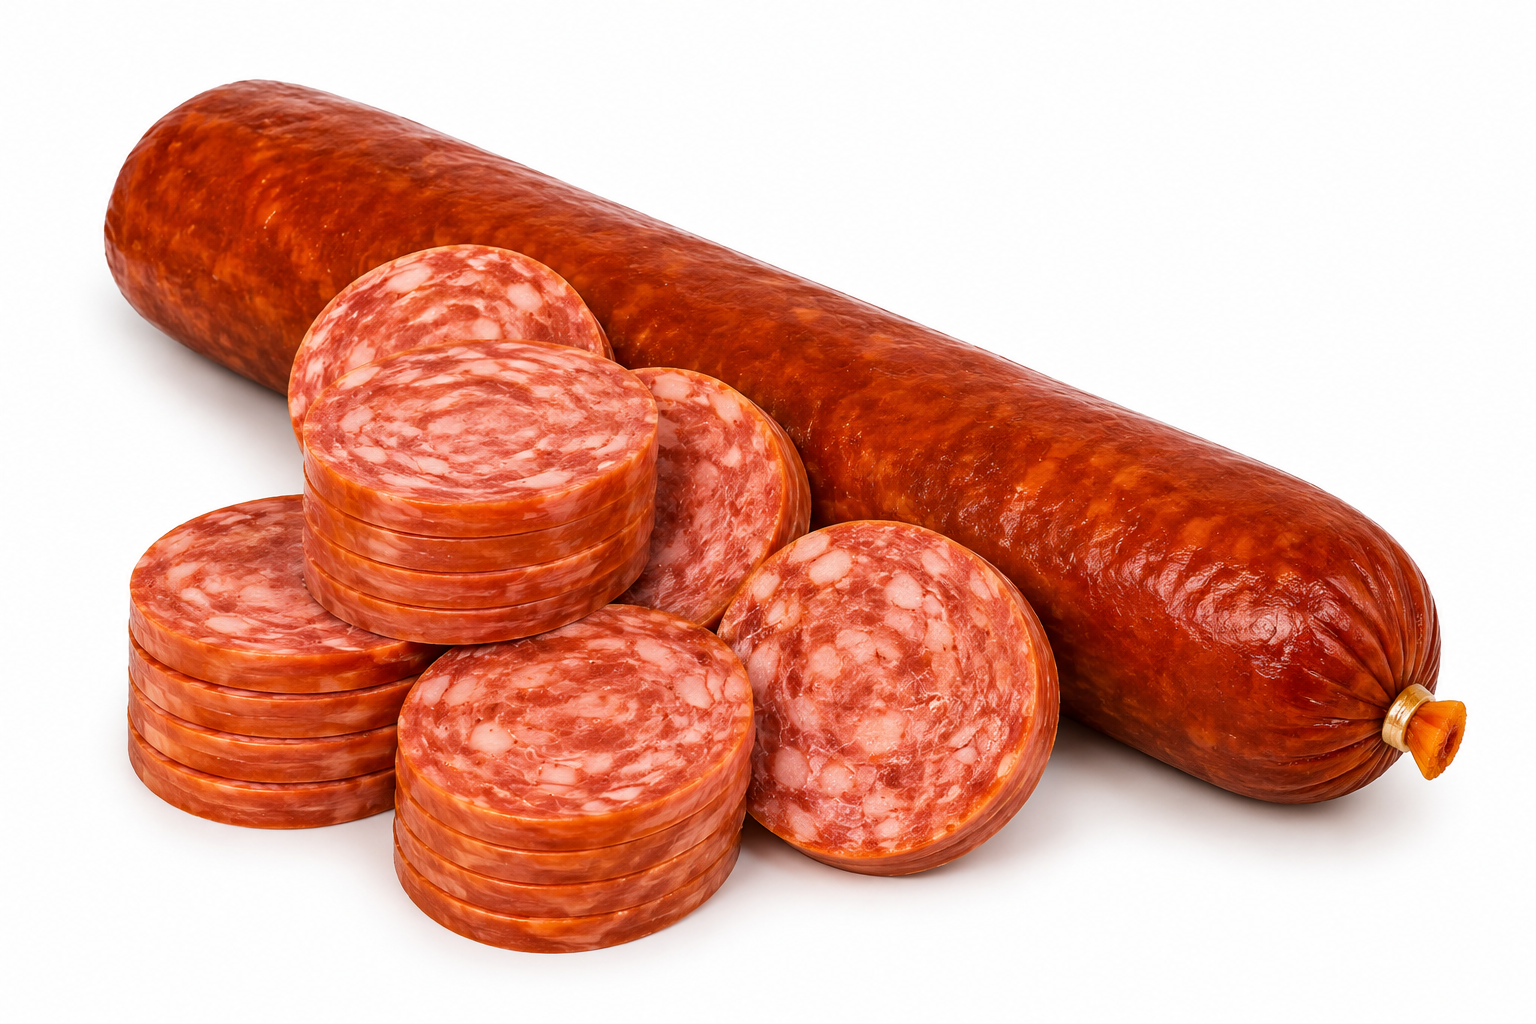
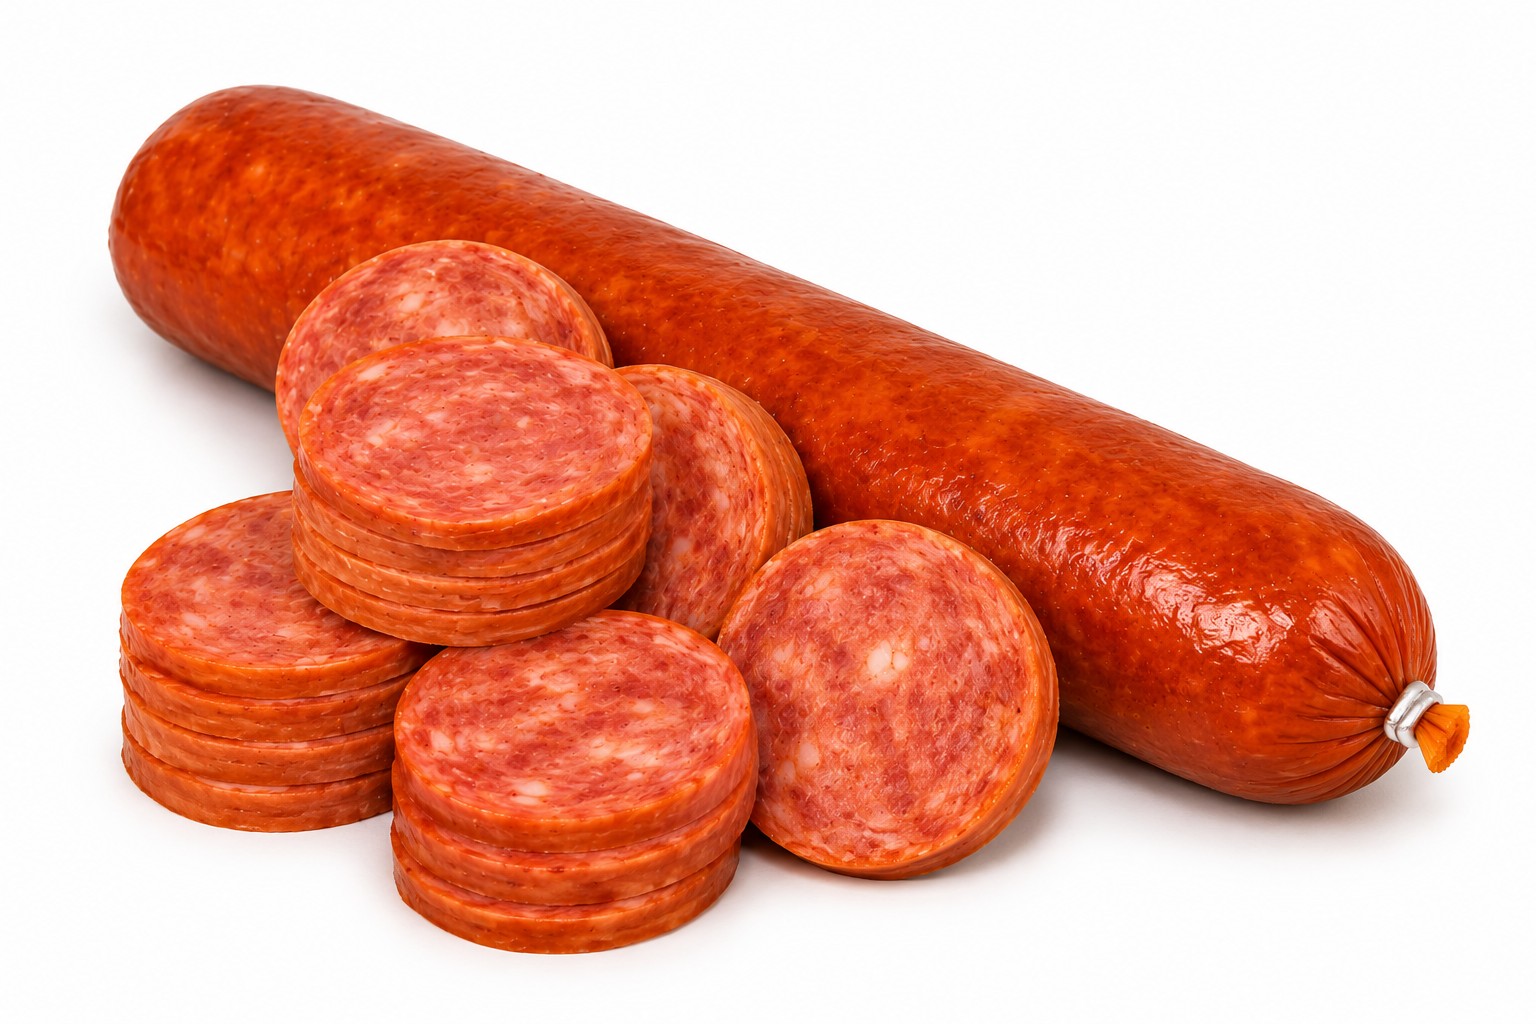
Actualizar imagenes y detalles de producto, agregar carrousel

diff --git a/js/productos.js b/js/productos.js
@@ -3,6 +3,7 @@
 // simulando un API Rest interno, y construcción dinámica del DOM.
 // Incluye la galería de imágenes integrada: cada tarjeta muestra la
 // fotografía del producto y al hacer clic se amplía en un lightbox.
+// Los productos con "imagenes" (2 o más) muestran un slider.
 // Usa jQuery para todas las operaciones sobre el DOM.
 // ============================================================
 
@@ -25,13 +26,37 @@ $(function () {
       <path d="M6 12c0 2 2.7 3.5 6 3.5s6-1.5 6-3.5"/>
     </svg>`;
 
+  // NUEVO: genera la imagen simple o el slider según el producto
+  function buildImagen(producto) {
+    if (producto.imagenes && producto.imagenes.length > 1) {
+      const imgs = producto.imagenes.map(function (src) {
+        return `<img src="${src}" alt="${producto.alt}" loading="lazy"
+                     onerror="this.classList.add('img-missing');">`;
+      }).join('');
+      const dots = producto.imagenes.map(function (_, i) {
+        return `<span class="${i === 0 ? 'active' : ''}"></span>`;
+      }).join('');
+
+      return `
+        <div class="slider" data-index="0">
+          <div class="slider-pista">${imgs}</div>
+          <button class="slider-btn prev" type="button" aria-label="Imagen anterior">&#10094;</button>
+          <button class="slider-btn next" type="button" aria-label="Imagen siguiente">&#10095;</button>
+          <div class="slider-dots">${dots}</div>
+        </div>`;
+    }
+
+    return `
+      <img src="${producto.imagen}" alt="${producto.alt}" loading="lazy"
+           onerror="this.classList.add('img-missing');">`;
+  }
+
   function buildCard(producto, indice) {
     const presentaciones = producto.presentaciones.join(' · ');
     return `
       <article class="product-card" data-categoria="${producto.categoria}" data-index="${indice}">
         <div class="product-media">
-          <img src="${producto.imagen}" alt="${producto.alt}" loading="lazy"
-               onerror="this.classList.add('img-missing');">
+          ${buildImagen(producto)}
           <div class="product-fallback">
             ${sliceIcon}
             <span>Foto pendiente</span>
@@ -118,6 +143,22 @@ $(function () {
     });
   }
 
+  // ---------- NUEVO: flechas del slider (home y catálogo) ----------
+  // Va ANTES del clic de la tarjeta para poder detenerlo.
+  $featured.add($fullGrid).on('click', '.slider-btn', function (e) {
+    e.stopPropagation();  // evita que se abra el lightbox al usar las flechas
+
+    const $slider = $(this).closest('.slider');
+    const total = $slider.find('.slider-pista img').length;
+    let i = parseInt($slider.attr('data-index'), 10);
+
+    i = $(this).hasClass('next') ? (i + 1) % total : (i - 1 + total) % total;
+
+    $slider.attr('data-index', i);
+    $slider.find('.slider-pista').css('transform', 'translateX(-' + (i * 100) + '%)');
+    $slider.find('.slider-dots span').removeClass('active').eq(i).addClass('active');
+  });
+
   // ---------- Lightbox: galería de imágenes integrada ----------
   const $lightbox = $('#lightbox');
   if (!$lightbox.length) return;
@@ -127,13 +168,19 @@ $(function () {
 
   $fullGrid.on('click', '.product-card', function () {
     indiceActual = parseInt($(this).data('index'), 10);
-    abrirLightbox(indiceActual);
+    // NUEVO: si hay slider, se amplía la imagen que se está viendo
+    const $slider = $(this).find('.slider');
+    const imgIndex = $slider.length ? parseInt($slider.attr('data-index'), 10) : 0;
+    abrirLightbox(indiceActual, imgIndex);
   });
 
-  function abrirLightbox(i) {
+  function abrirLightbox(i, imgIndex) {
     const producto = visibles[i];
     if (!producto) return;
-    $lbMedia.html('<img src="' + producto.imagen + '" alt="' + producto.alt + '">');
+    const src = (producto.imagenes && producto.imagenes.length > 1)
+      ? producto.imagenes[imgIndex || 0]
+      : producto.imagen;
+    $lbMedia.html('<img src="' + src + '" alt="' + producto.alt + '">');
     $lbCaption.text(producto.nombre + ' — ' + producto.presentaciones.join(' · '));
     $lightbox.addClass('open');
     $('body').css('overflow', 'hidden');

diff --git a/css/styles.css b/css/styles.css
@@ -1163,3 +1163,67 @@ h3 { font-size: clamp(1.2rem, 2.5vw, 1.5rem); }
   background: var(--white);
   border-top: 3px solid var(--gold);
 }
+
+/* ---------- Slider dentro de la imagen del producto ---------- */
+.product-media .slider,
+.product-media .slider-pista {
+  height: 100%;
+}
+
+.product-media .slider {
+  position: relative;
+  z-index: 1;
+  overflow: hidden;
+}
+
+.slider-pista {
+  display: flex;
+  transition: transform 0.4s ease;
+}
+
+.slider-pista img {
+  flex: 0 0 100%;
+  min-width: 100%;
+  width: 100%;
+  height: 100%;
+  object-fit: cover;
+}
+
+.slider-btn {
+  position: absolute;
+  top: 50%;
+  transform: translateY(-50%);
+  z-index: 3;
+  width: 34px;
+  height: 34px;
+  border-radius: 50%;
+  border: none;
+  background: var(--cream);
+  color: var(--wine);
+  box-shadow: var(--shadow-card);
+  cursor: pointer;
+  font-size: 0.9rem;
+  line-height: 1;
+  transition: background 0.2s ease;
+}
+.slider-btn:hover { background: var(--gold-light); }
+.slider-btn.prev { left: 0.5rem; }
+.slider-btn.next { right: 0.5rem; }
+
+/* Puntos indicadores */
+.slider-dots {
+  position: absolute;
+  bottom: 0.6rem;
+  left: 50%;
+  transform: translateX(-50%);
+  display: flex;
+  gap: 0.35rem;
+  z-index: 3;
+}
+.slider-dots span {
+  width: 8px;
+  height: 8px;
+  border-radius: 50%;
+  background: rgba(255, 255, 255, 0.6);
+}
+.slider-dots span.active { background: var(--gold); }
